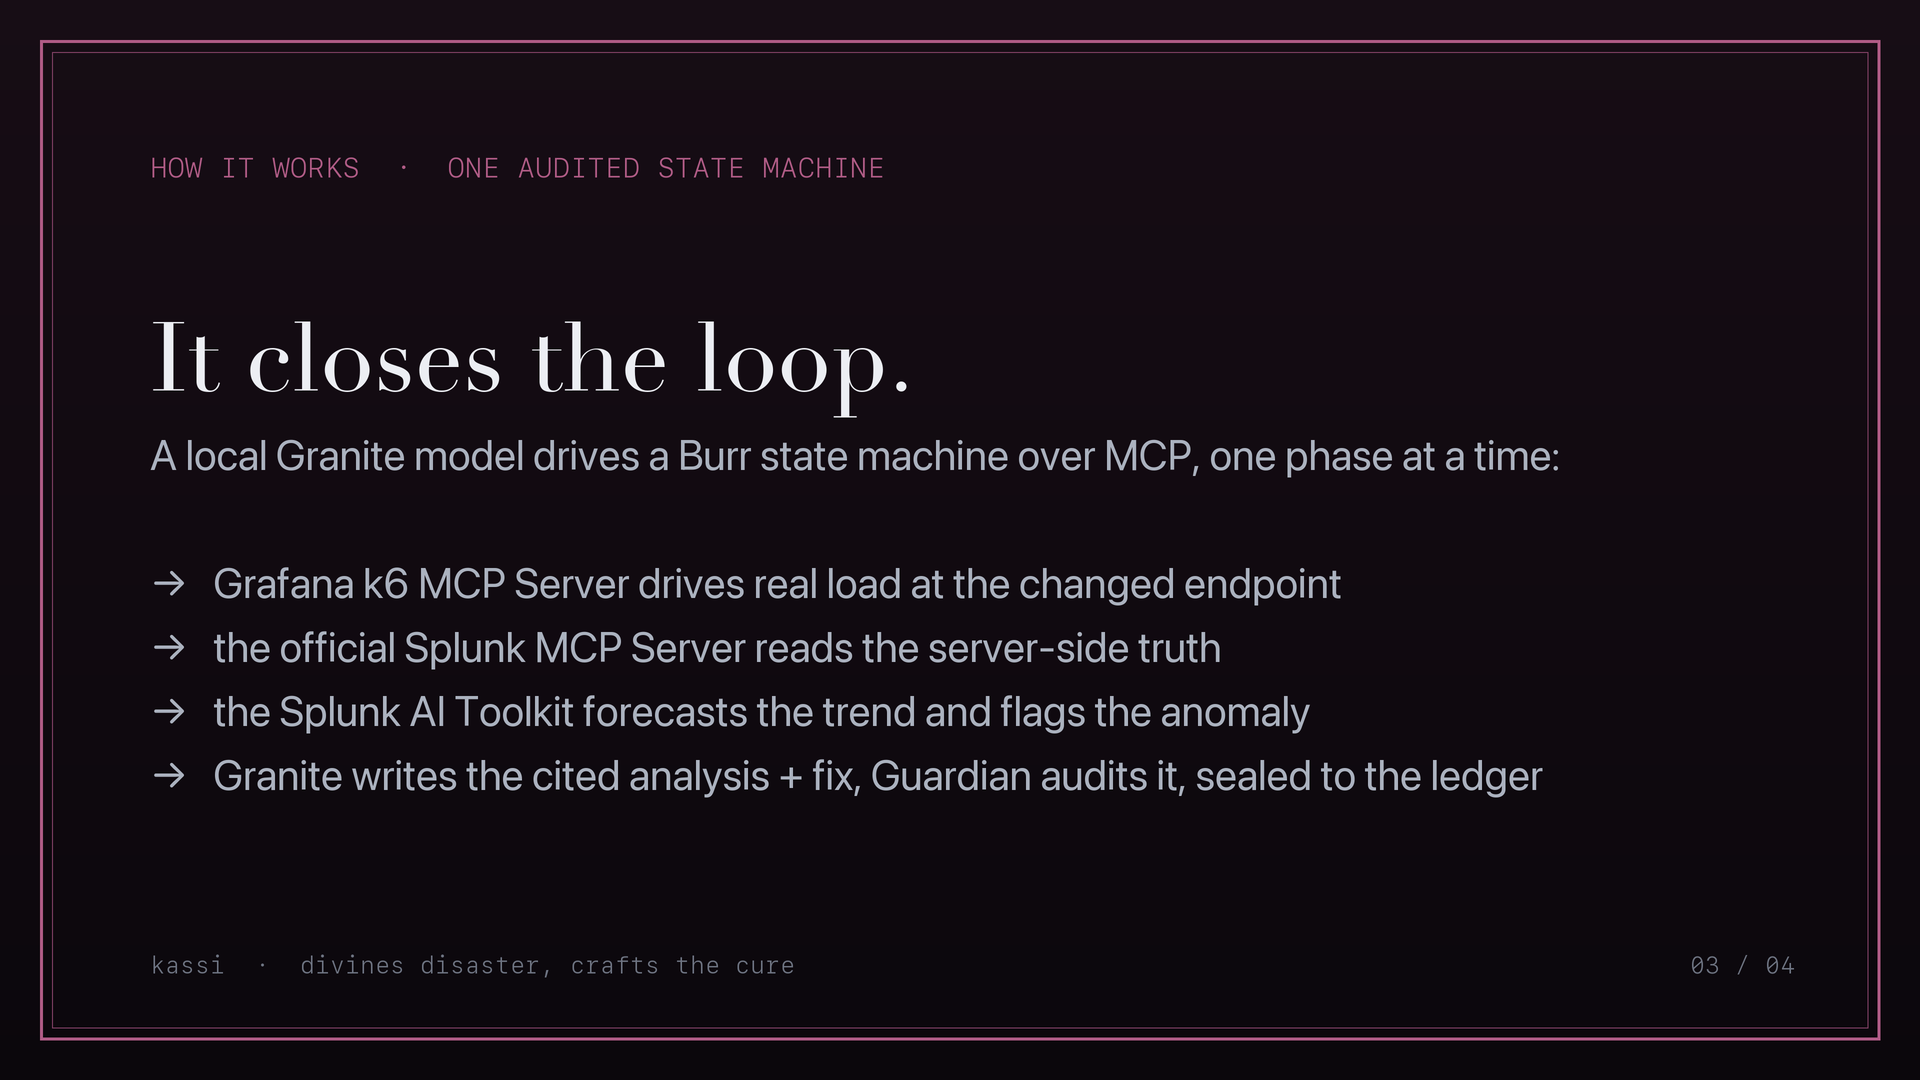
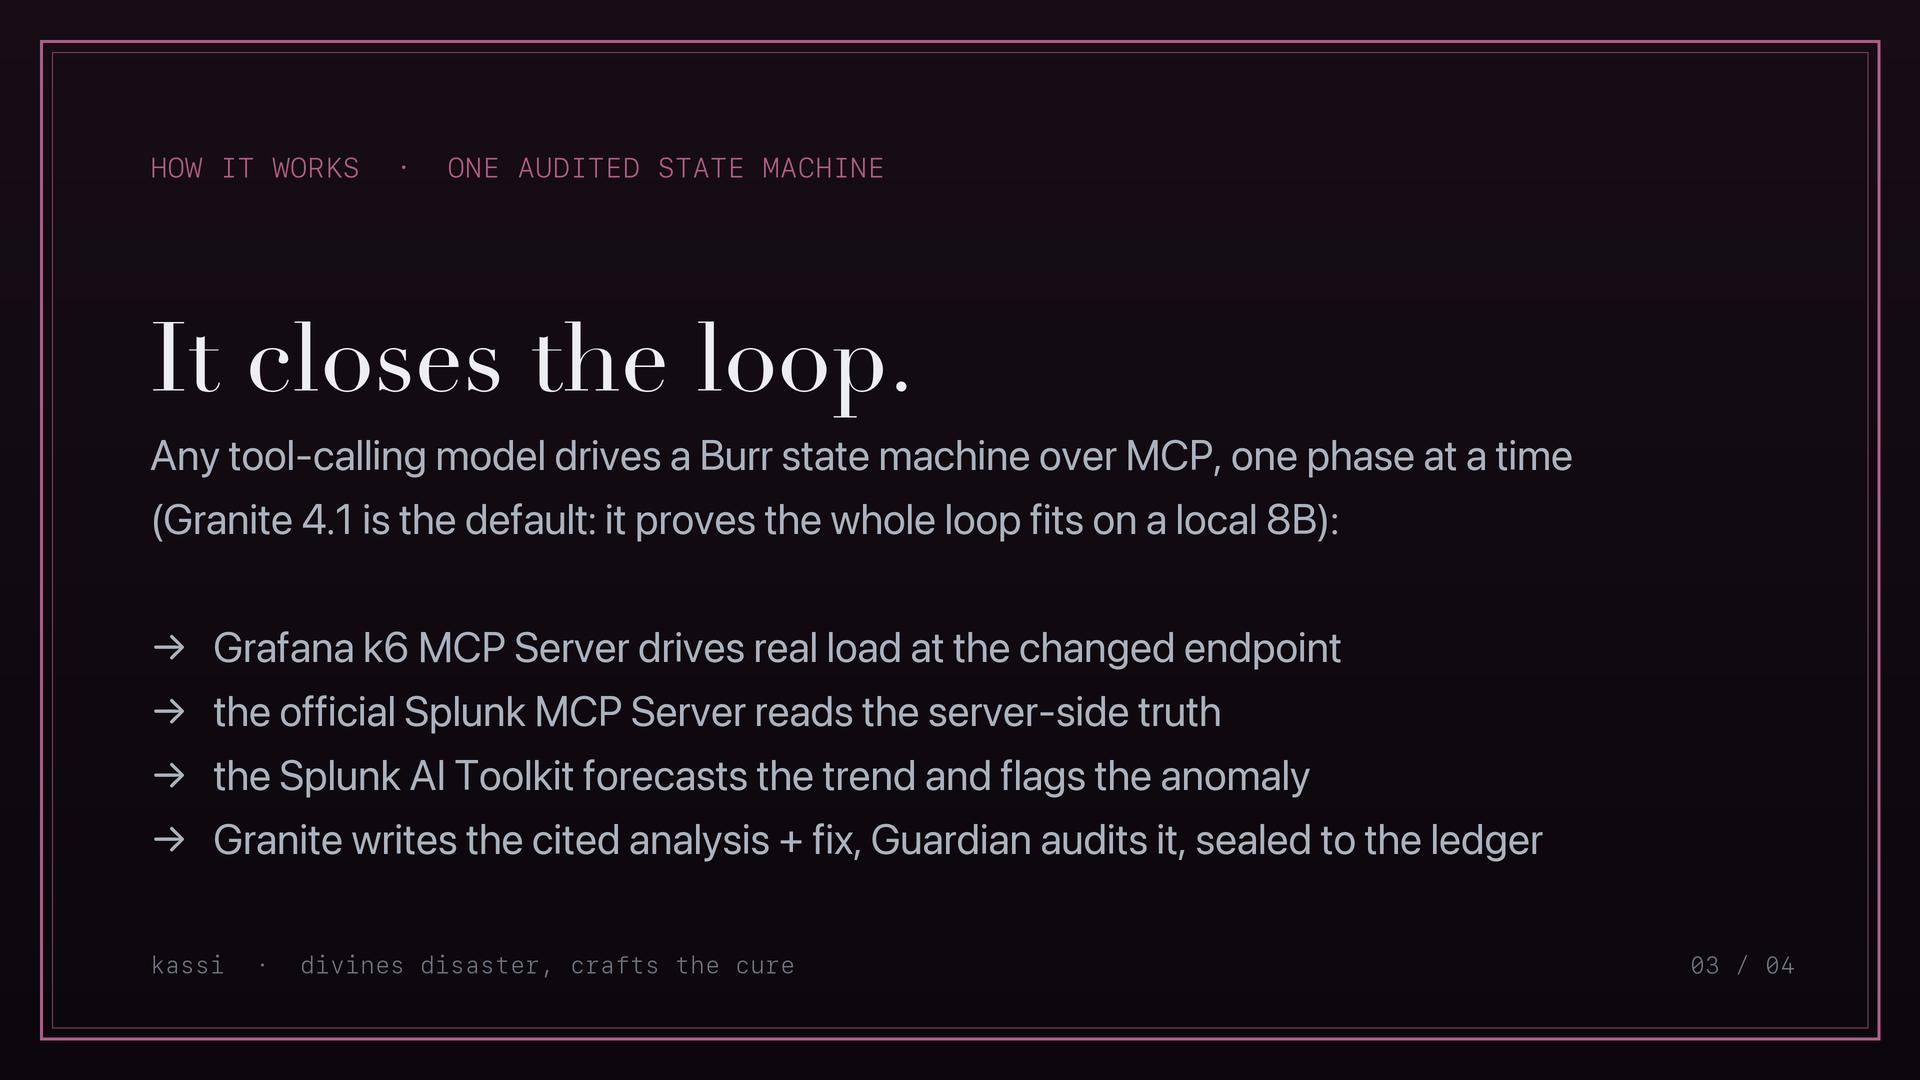
docs: foreground that the architecture is model-agnostic and scales
The driver and the writer/auditor sit behind a model-neutral surface (the MCP
step tool; the LLM Protocol with Ollama + Anthropic backends), so any capable
tool-calling model can drive and author. Granite 4.1 is the default because it
proves the whole loop (drive, write, audit) fits on a local 8B; swap in a larger
or hosted model and nothing else changes. Reflected in the architecture slide,
architecture_diagram.md, and the README.

diff --git a/scripts/make_slides.py b/scripts/make_slides.py
@@ -84,7 +84,8 @@ SLIDES = [
         "kicker": "HOW IT WORKS  ·  ONE AUDITED STATE MACHINE",
         "title": "It closes the loop.",
         "body": [
-            "A local Granite model drives a Burr state machine over MCP, one phase at a time:",
+            "Any tool-calling model drives a Burr state machine over MCP, one phase at a time",
+            "(Granite 4.1 is the default: it proves the whole loop fits on a local 8B):",
             "",
             "→   Grafana k6 MCP Server drives real load at the changed endpoint",
             "→   the official Splunk MCP Server reads the server-side truth",

diff --git a/architecture_diagram.md b/architecture_diagram.md
@@ -152,6 +152,14 @@ Three layers of AI, kept deliberately narrow:
    published. The writer is not trusted on its own word. Keeping the work-phases deterministic
    and splitting writer from auditor keeps the blast radius of a bad model output small.
 
+The architecture separates **orchestration from the model**. The driver and the writer/auditor are
+behind a model-neutral surface (the MCP `step` tool; the `LLM` Protocol with Ollama and Anthropic
+backends), so the model is pluggable: any capable tool-calling model can drive and author, and the
+deterministic scaffold + ledger hold regardless. Granite 4.1 is the *default* because it proves the
+entire loop, drive, write, and audit, fits on a local 8B with no cloud dependency. Swap in a larger
+or hosted model and nothing else changes; the design scales with the model, it does not depend on
+one.
+
 ## Data flow between services, APIs, and components
 
 1. Driver calls `step(select_mode, …)`; kassi reads a git diff or scores an OpenAPI spec

diff --git a/README.md b/README.md
@@ -85,6 +85,12 @@ than inventing them. Set `KASSI_LLM=anthropic` for the Claude Messages API inste
 (`claude-haiku-4-5`, needs `ANTHROPIC_API_KEY`). If the backend is unreachable, kassi runs the
 deterministic scaffold and a deterministic analysis, so a run never fails for lack of a model.
 
+The model is pluggable, both for the per-phase work and for *driving* the FSM (`kassi pilot`, or
+any MCP client). The orchestration, the audited Burr graph over MCP, is model-neutral, so the
+architecture scales with the model rather than depending on one. Granite 4.1 is the default
+because it proves the whole loop, drive, write, and audit, fits on a local 8B with no cloud
+dependency; swap in a larger or hosted model and nothing else changes.
+
 The Splunk step is optional: without `KASSI_SPLUNK_MCP_ENDPOINT` + `KASSI_SPLUNK_TOKEN`
 set, kassi skips correlation and runs k6-only.
 